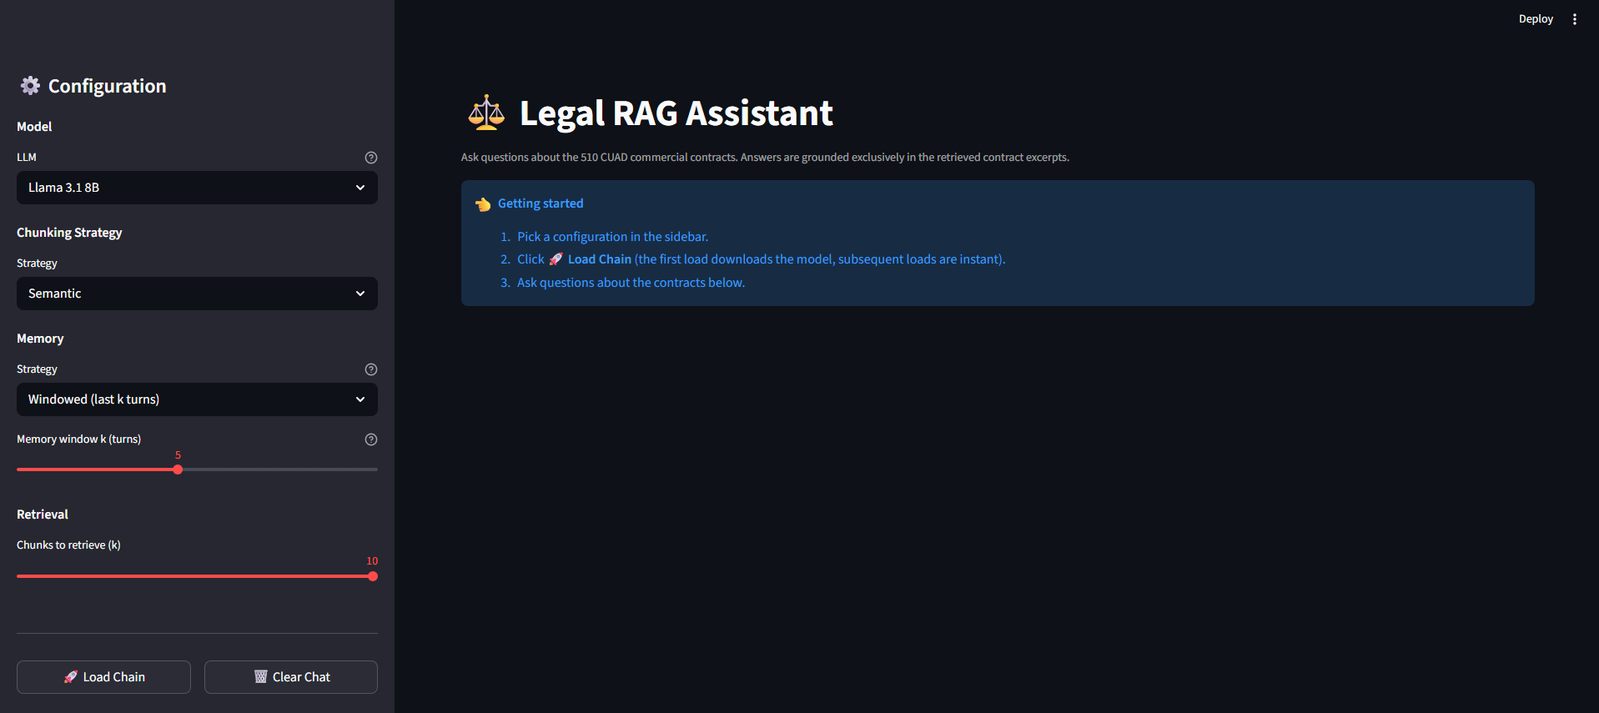
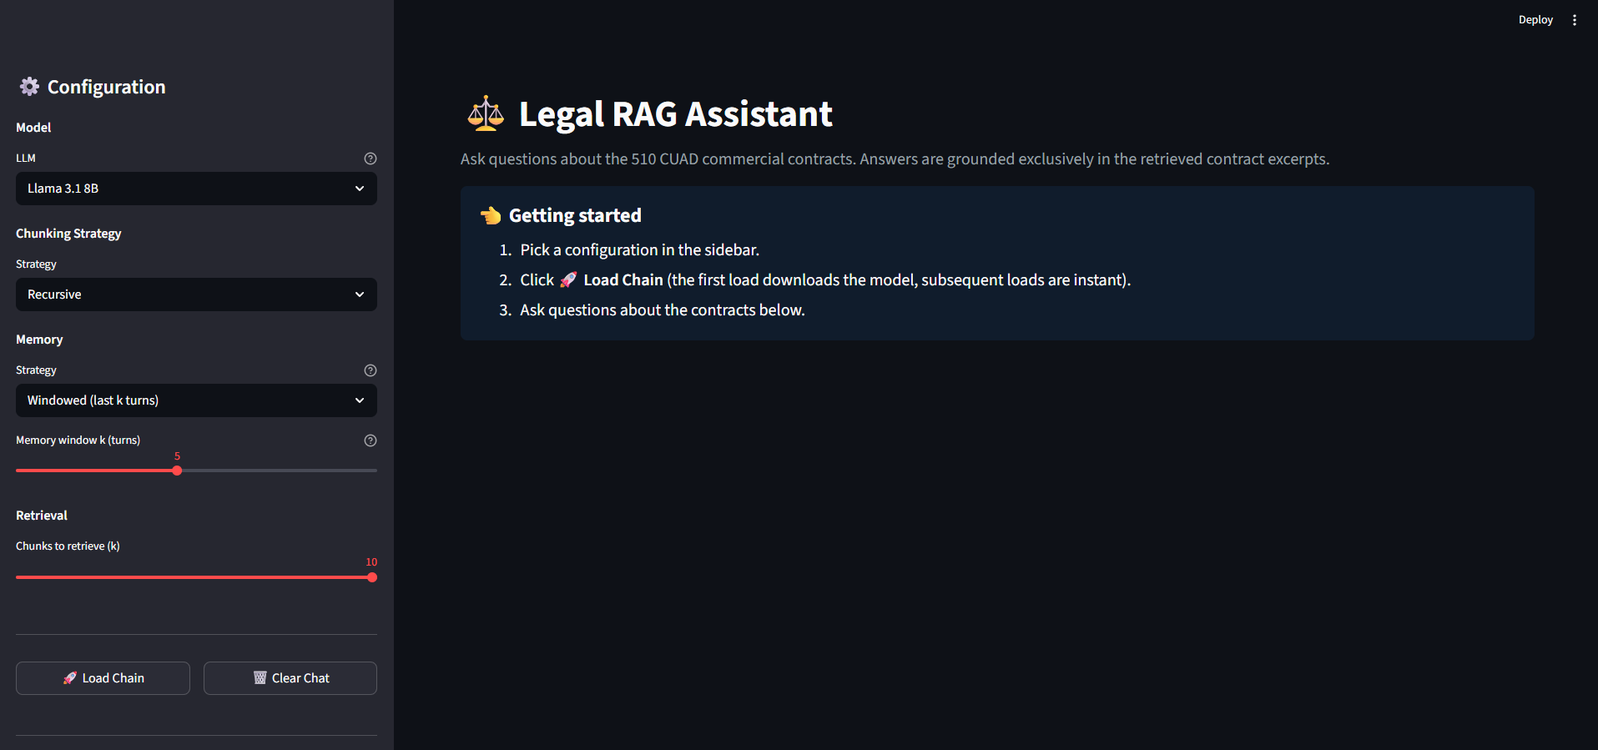
Update thesis chapters and add project README

diff --git a/overleaf_thesis/chapter5.tex b/overleaf_thesis/chapter5.tex
@@ -45,10 +45,10 @@ by the retrieval layer to filter results to a specific contract when the user na
 
 Full contracts can run to hundreds of pages, but language models have fixed context windows, so each document is divided into smaller passages before indexing. Chunk size is a tradeoff: long chunks carry more context but dilute the relevant signal with surrounding text, while short chunks are precise but may split a clause across two segments and lose its meaning. Three strategies were implemented and compared, each applied to the full contract corpus.
 
-\textbf{Fixed-size chunking} first splits the text at paragraph boundaries (double-newline separators), then groups adjacent paragraphs into chunks of up to 1{,}000 characters with a 200-character overlap between consecutive chunks. The overlap ensures that text near a boundary appears in both adjacent segments, reducing the chance that a relevant clause is cut in half. Paragraphs that on their own exceed the target size are split at an arbitrary character position. The method is fast to compute and exploits only the coarse cue of paragraph breaks, leaving sentence and clause boundaries unrespected.
+\textbf{Fixed-size chunking} first splits the text at paragraph boundaries (double-newline separators), then groups adjacent paragraphs into chunks of up to 1,000 characters with a 200-character overlap between consecutive chunks. The overlap ensures that text near a boundary appears in both adjacent segments, reducing the chance that a relevant clause is cut in half. Because every split point is a paragraph break, a chunk edge does not fall in the middle of a sentence, so the limitation of the method is size control rather than boundary quality. It is fast to compute, but since it uses only this single separator, a paragraph that already exceeds 1,000 characters is kept whole rather than divided further. About a fifth of the chunks in the fixed collection are therefore larger than the target, the largest reaching nearly ten thousand characters, and these oversized chunks combine several clauses, which dilutes the relevant text when they are retrieved.
 
 
-\textbf{Recursive character chunking} uses the same 1{,}000-character target and 200-character overlap, but tries to cut at natural boundaries before resorting to arbitrary splits: it attempts paragraph breaks first, then single newlines, then spaces, and only splits mid-text when a segment still exceeds the target size. This produces more coherent chunks than fixed-size splitting wherever the document structure allows.
+\textbf{Recursive character chunking} uses the same 1{,}000-character target and 200-character overlap, but tries to cut at natural boundaries before resorting to arbitrary splits: it attempts paragraph breaks first, then single newlines, then spaces, and only splits mid-text when a segment still exceeds the target size. Because a long paragraph is divided at the finest available boundary rather than kept whole, recursive chunking keeps every chunk close to the target size, whereas fixed-size splitting leaves long paragraphs as single oversized chunks.
 
 \textbf{Semantic chunking} does not use a fixed size target. The embedding model computes the similarity between each pair of adjacent sentences, and a chunk boundary is placed wherever this similarity drops sharply, indicating a topic shift. The resulting chunks group sentences that discuss the same subject, so chunk sizes vary with the content of each contract section. This requires embedding every sentence before indexing, which makes it slower than the other two methods, but it can produce cleaner boundaries in legal text where topically related clauses are separated by formulaic boilerplate. The implementation uses LangChain's \texttt{SemanticChunker} with the default percentile breakpoint method: a boundary is placed wherever the cosine distance between two adjacent sentence embeddings exceeds the 95th percentile of all such distances measured within the document.
 
@@ -69,7 +69,7 @@ This section describes how the system selects the passages passed to the languag
 \subsection{Dense Semantic Search}
 The dense side of retrieval queries the ChromaDB index built for the active chunking strategy. The retrieval query, stripped of the CUAD boilerplate, is embedded with the same all-MiniLM-L6-v2 model used at indexing time, and the index returns the chunks whose embeddings are closest to the query in cosine similarity.
 
-Because every question is scoped to a single named contract, the search is run over a large candidate pool and then filtered to that contract. For each query the index returns a pool of $k \times 10$ chunks, which are filtered to the chunks whose source path matches the named contract. The pool has to be large because the filter discards everything belonging to the other 509 contracts, and a smaller pool would frequently leave too few chunks from the target contract to fill the retrieval budget. With $k = 10$, 100 candidates are scored before filtering. The number of retrieved chunks $k$ is configurable from the Streamlit interface, and $k = 10$ was used for all six configurations in the automated evaluation.
+Because every question is scoped to a single named contract, the search is run over a large candidate pool and then filtered to that contract. For each query the index returns a pool of $k \times 10$ chunks, which are filtered to the chunks whose source path matches the named contract. The pool has to be large because the filter discards everything belonging to the other 509 contracts, and a smaller pool would frequently leave too few chunks from the target contract to fill the retrieval budget. With $k = 10$, 100 candidates are scored before filtering. The number of retrieved chunks $k$ is configurable from the Streamlit interface, and $k = 10$ was used for all six configurations in the automated evaluation. The value was chosen to balance retrieval recall against generation cost. A smaller $k$ risks excluding the relevant clause, especially given the vocabulary gap between the standardised CUAD category names and the wording used in the contracts, whereas a larger $k$ lengthens the input, raising generation latency and exposing the model to long-context degradation.
 
 Scoping the search to one contract also removes the main reason a diversity-aware reranker would otherwise be needed. A single contract repeats boilerplate definitions and recurring cross-references, so a plain similarity search can return several near-duplicate passages. The contract-scoped pool combined with the keyword retriever described next, and the deduplication applied when the two result lists are merged, spread the final selection across different parts of the contract rather than returning repeated copies of the single strongest match.
 

diff --git a/overleaf_thesis/abstract.tex b/overleaf_thesis/abstract.tex
@@ -1,7 +1,7 @@
 % Ελληνική Περίληψη
 
 \begin{abstract}\setlanguage{greek}
-Ο έλεγχος νομικών συμβάσεων απαιτεί τον εντοπισμό συγκεκριμένων ρητρών μέσα σε εκτενή έγγραφα γραμμένα σε τυπική, τεχνική γλώσσα, γεγονός που καθιστά τη διαδικασία αργή και δαπανηρή για τις νομικές ομάδες. Τα μεγάλα γλωσσικά μοντέλα μπορούν να απαντούν σε ερωτήσεις πάνω σε κείμενο, όμως δεν μπορούν να απαντήσουν σε ερωτήσεις για μια συγκεκριμένη σύμβαση που δεν είδαν ποτέ κατά την εκπαίδευσή τους, και τείνουν να παράγουν απαντήσεις που διατυπώνονται με βεβαιότητα αλλά δεν τεκμηριώνονται από καμία πηγή. Η παρούσα διπλωματική εργασία υλοποιεί και αξιολογεί ένα συνομιλιακό σύστημα απάντησης ερωτήσεων για εμπορικές συμβάσεις, βασισμένο στην τεχνική της Ανάκτησης-Επαυξημένης Παραγωγής (Retrieval-Augmented Generation, RAG). Το σύστημα ανακτά τα σχετικά αποσπάσματα από μια σύμβαση και τα παρέχει ως πλαίσιο στο γλωσσικό μοντέλο, ώστε κάθε απάντηση να μπορεί να αναχθεί από απόσπασμα του κειμένου από το οποίο προέκυψε. Παρέχεται ως διαδραστική διαδικτυακή εφαρμογή και εκτελείται εξ ολοκλήρου σε μία μόνο κάρτα γραφικών καταναλωτικού επιπέδου (GPU), χρησιμοποιώντας δύο τοπικά μοντέλα, το Llama 3.1 8B και το Mistral 7B, με κβαντισμό 4 bit. Η ανάκτηση συνδυάζει πυκνή σημασιολογική αναζήτηση με αναζήτηση λέξεων-κλειδιών BM25 και περιορίζει κάθε ερώτημα στη σύμβαση που κατονομάζεται, ενώ το σύστημα υποστηρίζει τρεις στρατηγικές τεμαχισμού και δύο στρατηγικές συνομιλιακής μνήμης. Με τη χρήση του συνόλου δεδομένων CUAD, το οποίο περιλαμβάνει 510 επισημειωμένες συμβάσεις, αξιολογήθηκαν έξι διαμορφώσεις με τέσσερις μετρικές RAGAS, δύο μετρικές τύπου LLM-as-a-judge και ένα σύστημα αναφοράς χωρίς ανάκτηση (baseline). Η ανάκτηση αύξησε την ορθότητα των απαντήσεων από 0,36 σε 0,77 για το ισχυρότερο μοντέλο, ενώ ο αναδρομικός ή ο σημασιολογικός τεμαχισμός με το Llama 3.1 8B έδωσε τις πιο ακριβείς απαντήσεις.
+Ο έλεγχος νομικών συμβάσεων απαιτεί τον εντοπισμό συγκεκριμένων ρητρών μέσα σε εκτενή έγγραφα γραμμένα σε τυπική, τεχνική γλώσσα, γεγονός που καθιστά τη διαδικασία αργή και δαπανηρή για τις νομικές ομάδες. Τα μεγάλα γλωσσικά μοντέλα μπορούν να απαντούν σε ερωτήσεις πάνω σε κείμενο, όμως δεν μπορούν να απαντήσουν σε ερωτήσεις για μια συγκεκριμένη σύμβαση που δεν είδαν ποτέ κατά την εκπαίδευσή τους, και τείνουν να παράγουν απαντήσεις που διατυπώνονται με βεβαιότητα αλλά δεν τεκμηριώνονται από καμία πηγή. Η παρούσα διπλωματική εργασία υλοποιεί και αξιολογεί ένα συνομιλιακό σύστημα απάντησης ερωτήσεων για εμπορικές συμβάσεις, βασισμένο στην τεχνική της Ανάκτησης-Επαυξημένης Παραγωγής (Retrieval-Augmented Generation, RAG). Το σύστημα ανακτά τα σχετικά αποσπάσματα από μια σύμβαση και τα παρέχει ως πλαίσιο στο γλωσσικό μοντέλο, ώστε κάθε απάντηση να μπορεί να αναχθεί στο απόσπασμα του κειμένου από το οποίο προέκυψε. Παρέχεται ως διαδραστική διαδικτυακή εφαρμογή και εκτελείται εξ ολοκλήρου σε μία μόνο κάρτα γραφικών καταναλωτικού επιπέδου (GPU), χρησιμοποιώντας δύο τοπικά μοντέλα, το Llama 3.1 8B και το Mistral 7B, με κβαντισμό 4 bit. Η ανάκτηση συνδυάζει πυκνή σημασιολογική αναζήτηση με αναζήτηση λέξεων-κλειδιών BM25 και περιορίζει κάθε ερώτημα στη σύμβαση που κατονομάζεται, ενώ το σύστημα υποστηρίζει τρεις στρατηγικές τεμαχισμού και δύο στρατηγικές συνομιλιακής μνήμης. Με τη χρήση του συνόλου δεδομένων CUAD, το οποίο περιλαμβάνει 510 επισημειωμένες συμβάσεις, αξιολογήθηκαν έξι διαμορφώσεις με τέσσερις μετρικές RAGAS, δύο μετρικές τύπου LLM-as-a-judge και ένα σύστημα αναφοράς χωρίς ανάκτηση (baseline). Η ανάκτηση αύξησε την ορθότητα των απαντήσεων από 0,36 σε 0,77 για το ισχυρότερο μοντέλο, ενώ ο αναδρομικός ή ο σημασιολογικός τεμαχισμός με το Llama 3.1 8B έδωσε τις πιο ακριβείς απαντήσεις.
 
 \vspace*{\fill}
 \noindent{\large\bf{Λέξεις-κλειδιά:}}\\ 

diff --git a/overleaf_thesis/chapter_last.tex b/overleaf_thesis/chapter_last.tex
@@ -12,9 +12,9 @@ The introduction set out two properties that make a language model unreliable on
 
 Retrieval quality was high and stable across all six configurations. Context Precision stayed between 0.91 and 0.95 and Context Recall between 0.87 and 0.96, because every configuration shares the same retrieval mechanism and the choice of language model does not change what is retrieved. The generation metrics varied more and divided along model lines, though by a smaller margin than the model sizes would suggest. Llama~3.1~8B scored higher than Mistral~7B on the generation metrics in every chunking configuration, with an average gap of about 0.16 on Faithfulness and 0.10 on Judge Correctness. The best single configuration was semantic chunking with Llama, which reached 0.91 Faithfulness, 0.70 Answer Relevancy, and 0.80 Correctness, the only configuration where all three reached 0.70 or above.
 
-The effect of the chunking strategy was milder and model-dependent. For Llama, answer quality improved from fixed to recursive to semantic chunking, with semantic giving the best Answer Relevancy and Correctness and recursive the highest Faithfulness. For Mistral the picture was mixed: recursive chunking gave its best Correctness while semantic gave its best Answer Relevancy, and, unlike in earlier experiments, semantic chunking was no longer harmful to it. A deployment that fixes the language model should therefore choose the chunking strategy to match it, rather than assuming one strategy is best in every case.
+The effect of the chunking strategy was milder and model-dependent. For Llama, answer quality improved from fixed to recursive to semantic chunking, with semantic giving the best Answer Relevancy and Correctness and recursive the highest Faithfulness. For Mistral the picture was mixed: recursive chunking gave its best Correctness while semantic gave its best Answer Relevancy. A deployment that fixes the language model should therefore choose the chunking strategy to match it, rather than assuming one strategy is best in every case.
 
-The quality gains came at a cost in speed. Mistral generated answers in 7 to 22 seconds depending on the chunking strategy. Llama ranged from 10-15 seconds on fixed and recursive chunks to an average of 65 seconds on semantic chunks, with the slowest individual queries running several minutes, where the larger passages lengthen the input the model has to process. Semantic chunking with Llama gives the best answers but is too slow for an interactive setting. For the real-time chat interface, fixed or recursive chunking with Llama offers the better balance of quality and response time.
+The quality gains came at a cost in speed. Mistral generated answers in 7 to 22 seconds depending on the chunking strategy. Llama ranged from 10-15 seconds on fixed and recursive chunks to an average of 65 seconds on semantic chunks, with the slowest individual queries running several minutes, where the larger passages lengthen the input the model has to process. Semantic chunking with Llama gives the best answers but is too slow for an interactive setting. For the real-time chat interface, recursive chunking with Llama offers the better balance of quality and response time.
 
 The two models also handled the unanswerable questions differently. Across the six configurations the system correctly declined 30 of the 36 unanswerable questions. All six failures came from Llama, which occasionally treated a topically adjacent clause as a positive answer. Mistral's shorter and more cautious style refused cleanly in every case. The behaviour that helped Llama on answerable questions, producing a fuller and more committed response, worked against it when the correct response was that the clause was absent.
 

diff --git a/overleaf_thesis/chapter6.tex b/overleaf_thesis/chapter6.tex
@@ -64,7 +64,8 @@ Semantic  & Mistral 7B   & 0.91 & \textbf{0.96} \\
 \label{tab:excerpt-retrieval}
 \end{table}
 
-Context Precision and Context Recall are high and stable across all six configurations. Precision ranges from 0.91 to 0.95 and recall from 0.87 to 0.96, a spread of well under 0.1 in both cases. This reflects the fact that all configurations share the same retrieval mechanism: contract-scoped dense similarity search combined with BM25 and legal synonym expansion over the same document corpus. The model choice has no effect on what gets retrieved, since retrieval runs before the language model is invoked, and switching chunking strategy changes chunk boundaries rather than the retrieval logic. The consistently high precision and recall confirm that the relevant clause is almost always present in the retrieved context. Where the system falls short, the cause lies in generation rather than retrieval.
+Context Precision and Context Recall are high and stable across all six configurations. Precision ranges from 0.91 to 0.95 and recall from 0.87 to 0.96, a spread of well under 0.1 in both cases. This reflects the fact that all configurations share the same retrieval mechanism: contract-scoped dense similarity search combined with BM25 and legal synonym expansion over the same document corpus. The model choice has no effect on what gets retrieved, since retrieval runs before the language model is invoked, and switching chunking strategy changes chunk boundaries rather than the retrieval logic. The consistently high precision and recall confirm that the relevant clause is almost always present in the retrieved context. Where the system falls short, the cause lies in generation rather than retrieval. This recall level also confirms that $k = 10$ was a satisfactory parameter: the relevant passage is almost always among the ten retrieved chunks, so a larger $k$ would have added little recall at a higher latency cost.
+
 
 
 \subsection{Generation Quality}

diff --git a/README.md b/README.md
@@ -1,1 +1,175 @@
-# Thesis
+# Legal Contract Question Answering with RAG
+
+A retrieval-augmented generation (RAG) system that answers questions about commercial
+legal contracts from the CUAD dataset. It runs two open-weight language models locally,
+Llama 3.1 8B Instruct and Mistral 7B Instruct, both under 4-bit quantization so they fit
+on a single consumer GPU. A Streamlit interface lets you ask questions about the loaded
+contracts and see the passages each answer was drawn from.
+
+This repository is the code for a diploma thesis at the Department of Electrical and
+Computer Engineering, University of Thessaly. The written thesis is under
+`overleaf_thesis/`.
+
+## What it does
+
+Given a question about a named contract, the system retrieves the most relevant passages
+from that contract and passes them to a language model, which answers from the retrieved
+text rather than from its training data. Because the answer is built from specific
+passages, it can be traced back to the part of the contract it came from.
+
+The pipeline has the following stages:
+
+1. **Chunking.** Each contract is split into passages using one of three strategies:
+   fixed-size (1,000 characters, 200 overlap), recursive character splitting, or semantic
+   splitting based on sentence-embedding similarity. Each strategy is stored in its own
+   Chroma database.
+2. **Embedding.** Passages and queries are embedded with `all-MiniLM-L6-v2` (384
+   dimensions) from Sentence Transformers.
+3. **Retrieval.** Dense similarity search over Chroma runs alongside a BM25 keyword index.
+   BM25 queries are expanded with a hand-written list of legal synonyms so that a query
+   for a CUAD category such as *Expiration Date* also matches wording like *terminate upon
+   90 days notice*. Every question is scoped to the named contract, and the two result
+   lists are interleaved and de-duplicated down to the top `k` passages (`k = 10` in the
+   experiments).
+4. **Generation.** The retrieved passages, the conversation history, and the question are
+   sent to the selected model with a prompt that instructs it to quote the relevant clause
+   and to reply with a fixed "Not found" phrase when no related clause is present.
+5. **Memory.** Multi-turn conversations use either a windowed memory (the last `k` turns
+   kept verbatim) or a running summary produced by the model.
+
+## Dataset
+
+The system uses CUAD (Contract Understanding Atticus Dataset): 510 commercial contracts
+with expert annotations across 41 clause categories, in SQuAD format. The data is not
+included in this repository. Download it from the Atticus Project
+(https://www.atticusprojectai.org/cuad) or the Hugging Face dataset `theatticusproject/cuad`
+and place it as:
+
+```
+data/CUADv1.json
+data/full_contract_txt/*.txt
+```
+
+## Requirements
+
+- An NVIDIA GPU with about 8 GB of memory. The thesis experiments used an RTX 3060 Ti.
+  Both models load at roughly 5 GB each under 4-bit NF4 quantization, one at a time.
+- Docker with the NVIDIA Container Toolkit, or a local Python 3.10 environment.
+- A Hugging Face account with access to the gated Llama 3.1 models.
+- An OpenAI API key if you want to run the evaluation (GPT-4o-mini is the RAGAS and
+  LLM-as-a-judge evaluator). The interactive app does not need it.
+
+## Setup
+
+Clone the repository and add the dataset as shown above. Then create a `.env` file in the
+project root:
+
+```
+HF_TOKEN=your_huggingface_token
+OPENAI_API_KEY=your_openai_key          # only needed for evaluation
+LANGFUSE_PUBLIC_KEY=...                  # optional, for latency/token tracing
+LANGFUSE_SECRET_KEY=...                  # optional
+LANGFUSE_HOST=https://cloud.langfuse.com # optional
+```
+
+Build the three vector databases from the contract texts. This reads `data/`, chunks every
+contract with the three strategies, and writes `chroma_db_fixed/`, `chroma_db_recursive/`,
+and `chroma_db_semantic/`:
+
+```bash
+python src/chunking.py
+```
+
+### Run with Docker
+
+```bash
+docker compose up --build
+```
+
+The Streamlit app is served on http://localhost:8501 and a Jupyter server on
+http://localhost:8888. Downloaded model weights are kept in a named volume, so they are
+downloaded once and reused across restarts.
+
+### Run locally
+
+Install PyTorch for your CUDA version first (see https://pytorch.org/get-started/locally/),
+then the rest of the dependencies:
+
+```bash
+pip install torch --index-url https://download.pytorch.org/whl/cu121
+pip install -r requirements.txt
+streamlit run src/app.py
+```
+
+## Using the app
+
+Pick a model, chunking strategy, memory type, and `k` in the sidebar, then press **Load
+Chain** to assemble the pipeline for that configuration. The first load downloads the
+model weights; later loads reuse the cached model. Ask a question that names a contract,
+for example:
+
+```
+In the contract "VERICELCORP_08_06_2019-EX-10.10-SUPPLY AGREEMENT", what is the governing law?
+```
+
+Each answer shows the reformulated retrieval query (when memory rewrites the question) and
+an expander listing the retrieved passages with their source filenames.
+
+## Evaluation
+
+`src/evaluate.py` runs the automated evaluation. It draws a fixed stratified sample of CUAD
+questions (14 answerable, 6 unanswerable by default at seed 42) and scores each answer with
+four RAGAS metrics (Faithfulness, Answer Relevancy, Context Precision, Context Recall) and
+two LLM-as-a-judge metrics (correctness and conciseness). Results are written to
+`results/` as per-question and per-configuration CSV files.
+
+Run one configuration:
+
+```bash
+python src/evaluate.py --chunking recursive --model llama --sample 20 --seed 42 --eval_model openai
+```
+
+Run the no-retrieval baseline for one model (the model answers from general knowledge
+only, which measures how much retrieval contributes):
+
+```bash
+python src/evaluate.py --baseline --model llama --sample 20 --seed 42 --eval_model openai
+```
+
+The three chunking strategies and two models give six configurations. The two memory
+strategies are not part of the automated scores, because each question is evaluated in
+isolation with the memory cleared first; they are compared separately through a multi-turn
+session in the app. Full results, tables, and analysis are in the thesis under
+`overleaf_thesis/`.
+
+## Repository layout
+
+```
+src/app.py           Streamlit interface
+src/rag_chain.py     conversational RAG chain: retrieval, prompts, memory
+src/retriever.py     Chroma dense retriever and BM25 keyword retriever
+src/chunking.py      builds the three vector databases from the contract texts
+src/data_loader.py   loads the contract text files
+src/llm.py           loads Llama or Mistral with 4-bit quantization
+src/evaluate.py      RAGAS and LLM-as-a-judge evaluation, and the no-retrieval baseline
+data/                CUAD dataset (not tracked)
+chroma_db_*/         vector databases, created by src/chunking.py (not tracked)
+results/             evaluation output (not tracked)
+overleaf_thesis/     the written thesis
+Dockerfile           image with CUDA PyTorch and the dependencies
+docker-compose.yml   app and Jupyter services with GPU passthrough
+```
+
+## Limitations
+
+Answer quality depends on the retriever returning the correct passage; when it returns a
+topically adjacent clause instead, the model can produce an answer that is grounded in the
+retrieved text but wrong against the ground truth. Semantic chunking with Llama gives the
+best answer quality but is the slowest configuration, with the largest contracts taking
+well over a minute per query. Generation uses sampling, so the same question can produce
+slightly different answers on different runs.
+
+## Author
+
+Andreas Kanachalidis, Department of Electrical and Computer Engineering, University of
+Thessaly. Supervisor: Eleni Tousidou.
